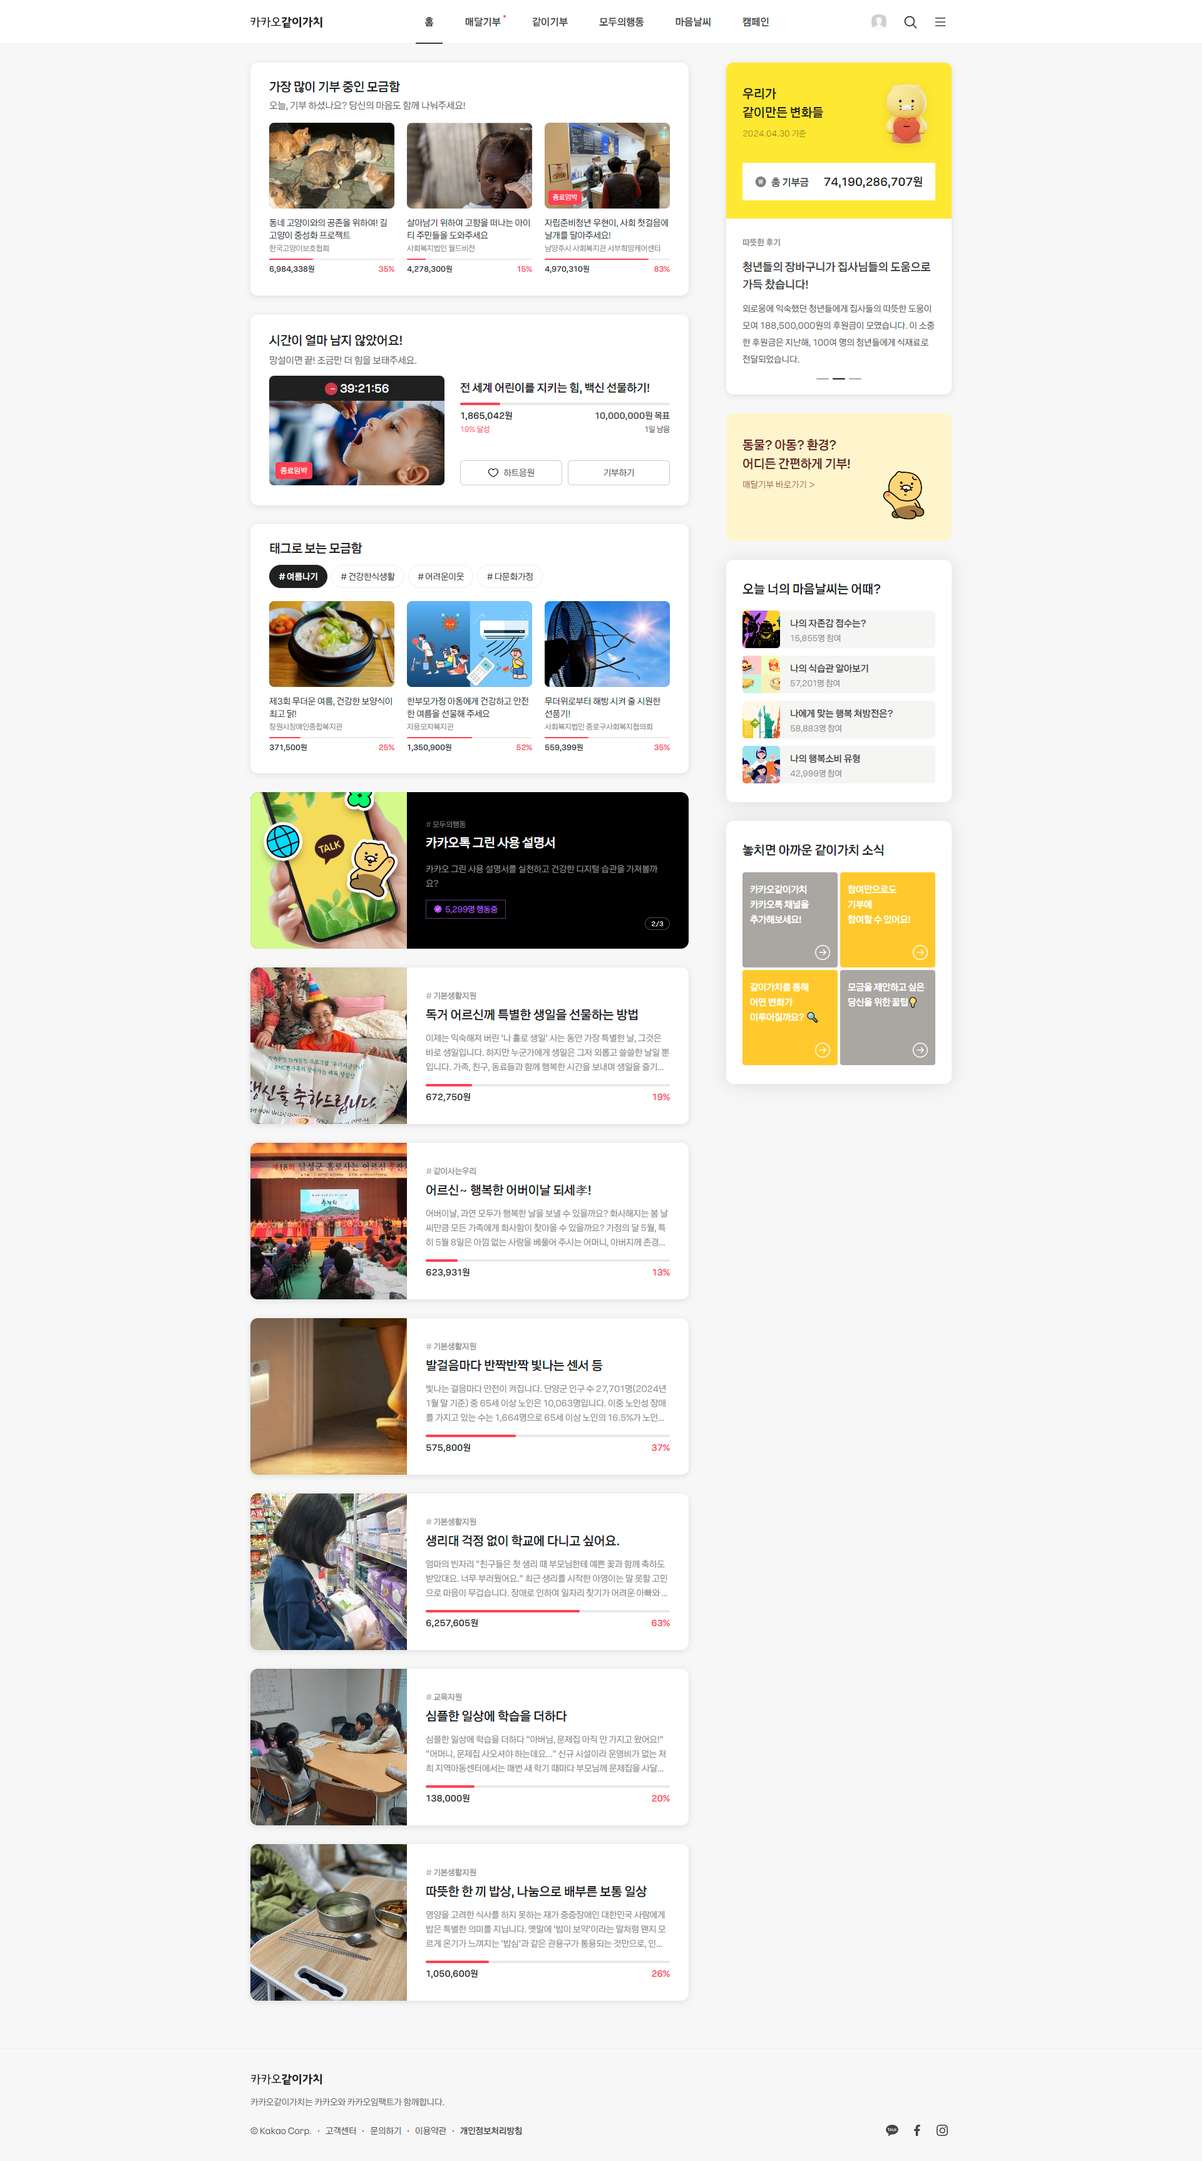
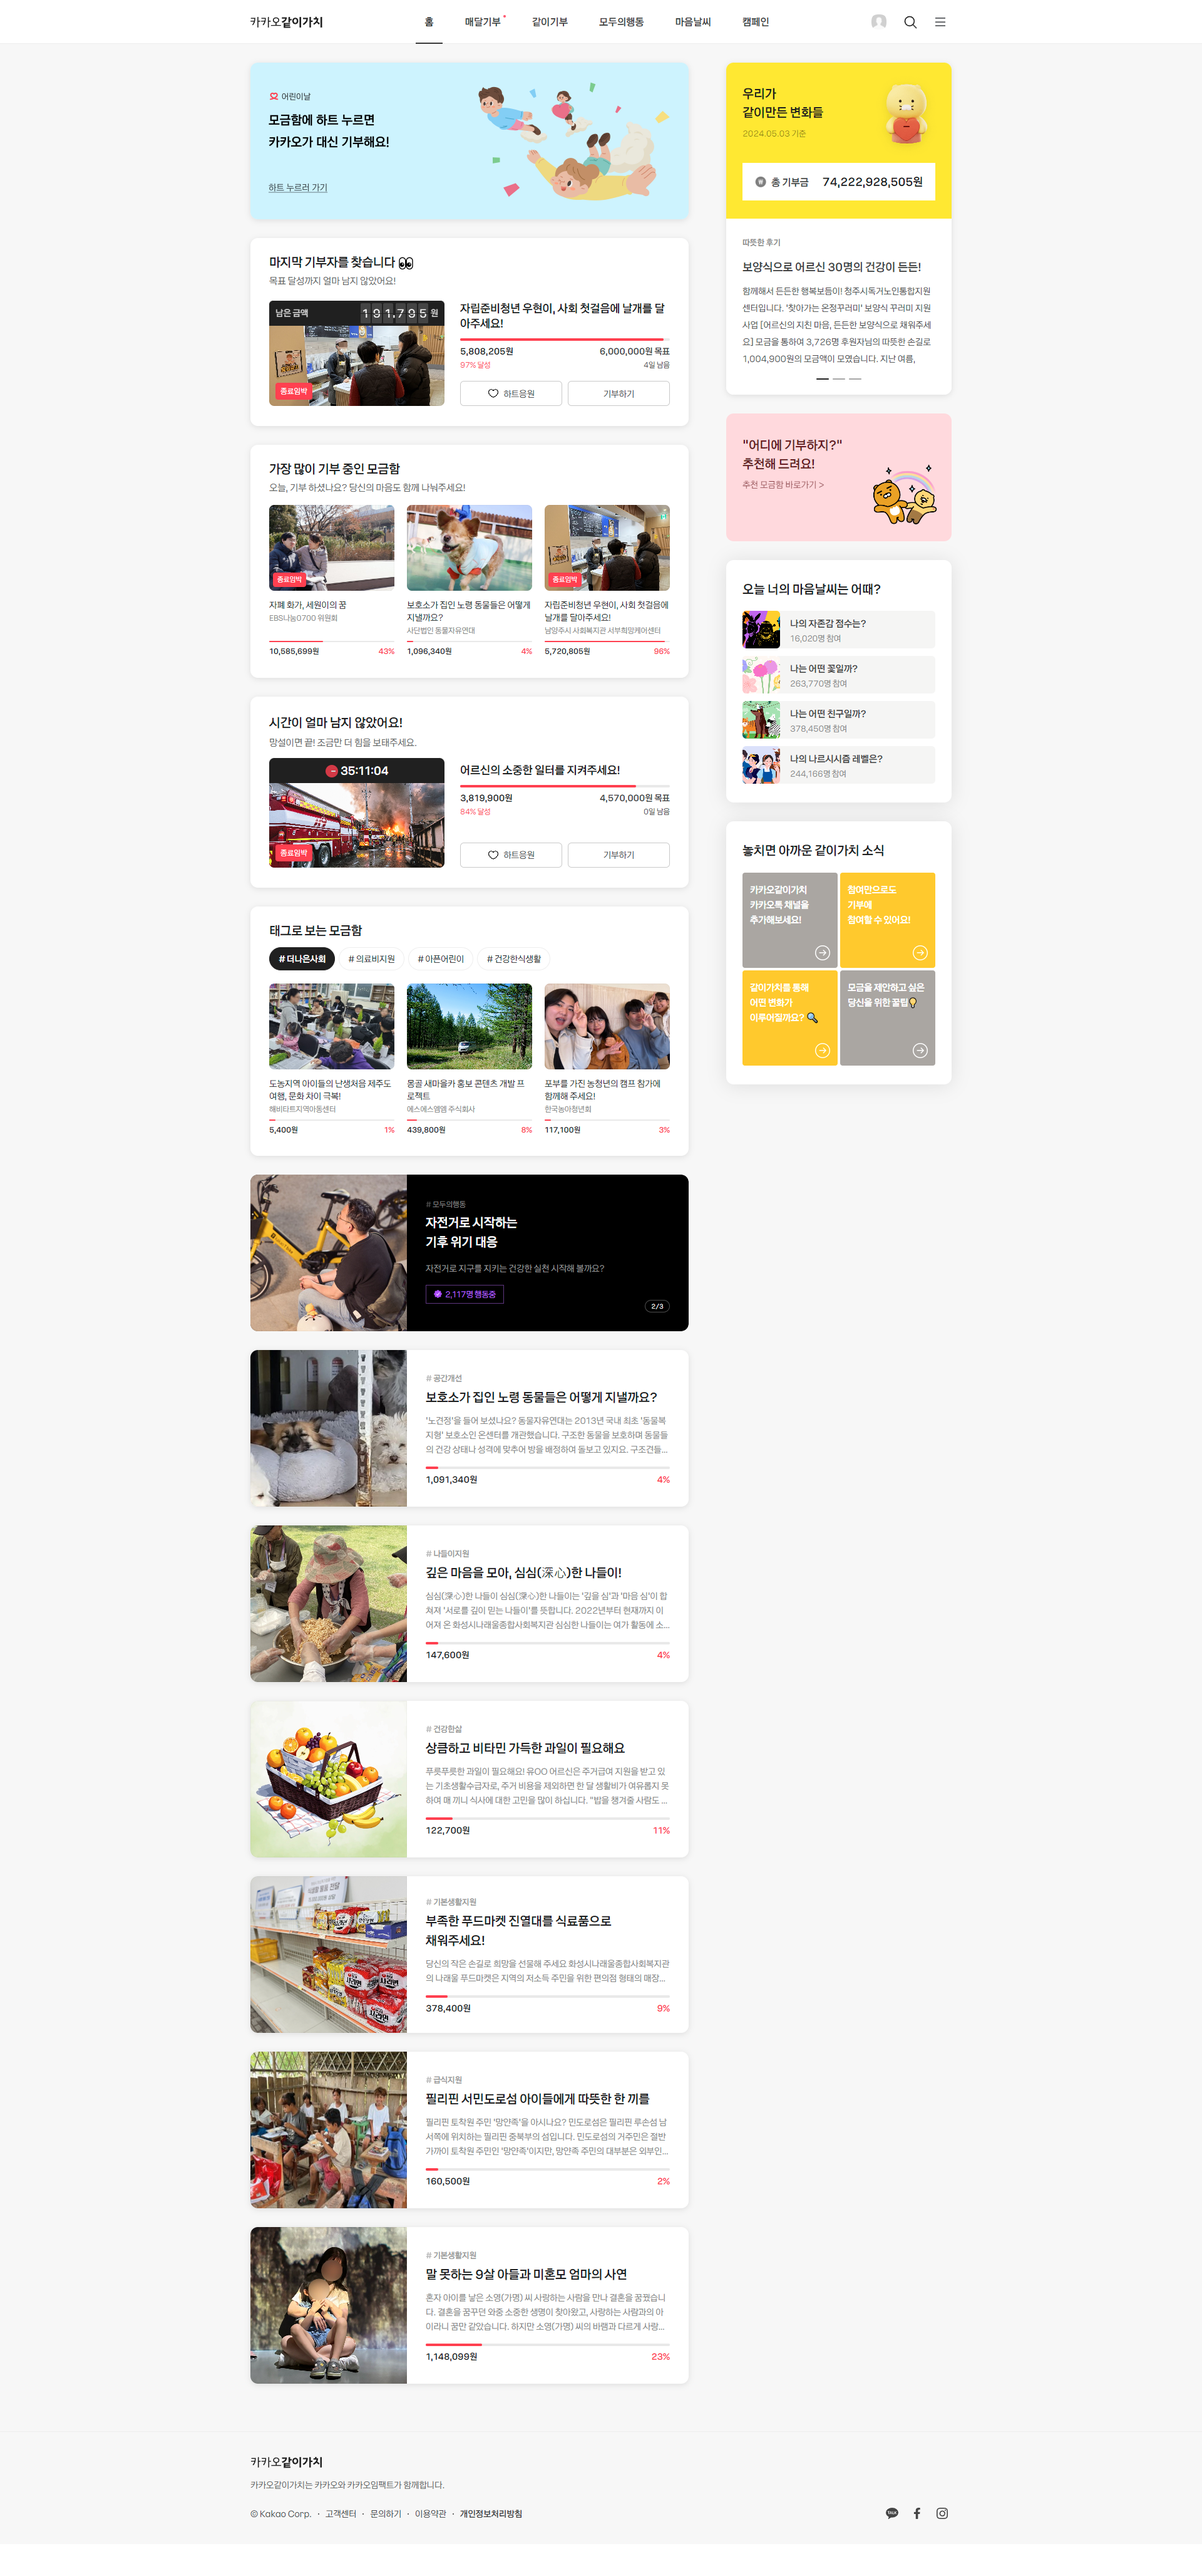
feat : main right 상단 작업중

Changed region(s): [[0.1875, 0.0, 0.8125, 0.9302], [0.2188, 0.9612, 0.4375, 0.9922]]

diff --git a/public/www/css/mainrt.css b/public/www/css/mainrt.css
@@ -1,13 +1,43 @@
 .main-rt {
+  /* margin-left: 30px; */
+  width: 360px;
 }
 .main-rt-top {
-  width: 360px;
-  height: 560px;
+  /* width: 360px;
+  height: 560px; */
+  margin-bottom: 30px;
+  border-radius: 12px;
+  box-shadow: rgba(0, 0, 0, 0.1) 0px 2px 10px 0px;
 }
 
 .main-rt-top-donation {
+  width: 100%;
+  height: 250px;
+  background: #ffe832;
+  border-radius: 12px 12px 0px 0px;
+  padding: 34px 26px 29px;
+}
+.donation-title {
+  font-size: 20px;
+  font-weight: 600;
+  line-height: 1.5;
+  color: #202020;
+}
+.donation-data {
+  padding-top: 12px;
+  color: rgba(0, 0, 0, 0.5);
+  font-size: 13px;
+}
+
+.donation-img img {
+  width: 105px;
+  height: 133px;
 }
 .main-rt-top-review {
+  width: 100%;
+  height: 280px;
+  background: #fff;
+  border-radius: 0px 0px 12px 12px;
 }
 
 .main-rt-banner {
@@ -15,17 +45,17 @@
   height: 204px;
   margin-top: 30px;
   border-radius: 12px;
-  background: pink;
+  background: #ffd9dd;
 }
 
 .main-rt-card {
   width: 360px;
   height: 387px;
-  background: pink;
+  background: #f5f5f4;
 }
 .main-rt-news {
   width: 360px;
   height: 420px;
 
-  background: pink;
+  /* background: #aaa6a2, #ffc92d; */
 }

diff --git a/public/www/css/header.css b/public/www/css/header.css
@@ -9,20 +9,31 @@
   border-bottom: 1px solid #eee;
 }
 .header .inner {
-  height: 70px;
+  height: 100%;
 }
 
-.header-nav a {
-  /* display: inline-block; */
+.header-nav {
+  height: 100%;
+}
+
+.header-nav li a {
+  display: inline-flex;
   font-size: 16px;
   font-weight: 700;
+  position: relative;
+  justify-content: center;
+  align-items: center;
+  height: 100%;
+  padding: 0 14px;
 }
 .nav-list {
   display: flex;
   gap: 15px;
+  height: 100%;
 }
 .nav-list li {
-  padding: 15px;
+  /* padding: 15px; */
+  height: 100%;
 }
 .new-alarm {
   width: 4px;
@@ -30,6 +41,8 @@
   background: #ff5a72;
   border-radius: 50%;
   position: absolute;
+  top: 24px;
+  right: 6px;
 }
 
 .header-icon-list {
@@ -37,7 +50,7 @@
 }
 
 .icon-profile img {
-  border-radius: 8px;
+  border-radius: 10px;
   width: 25px;
   height: 25px;
 }

diff --git a/public/www/index.html b/public/www/index.html
@@ -142,7 +142,18 @@
           <div class="main-rt">
             <div class="main-rt-top br-30">
               <!-- 기부금 상황 -->
-              <div class="main-rt-top-donation"></div>
+              <div class="main-rt-top-donation">
+                <a href="#" class="donation-title"
+                  >우리가<br />같이만든 변화들</a
+                >
+                <p class="donation-data">2024.05.03 기준</p>
+                <div class="donation-img">
+                  <img
+                    src="./images/img_choonsik_231226.png"
+                    alt="기부금이미지"
+                  />
+                </div>
+              </div>
               <!-- 기부 후기 -->
               <div class="main-rt-top-review"></div>
             </div>

diff --git a/public/www/css/common.css b/public/www/css/common.css
@@ -17,7 +17,7 @@ a {
   text-decoration: none;
 }
 html {
-  overflow-x: hidden;
+  /* overflow-x: hidden; */
 }
 
 body {
@@ -28,8 +28,7 @@ body {
 }
 
 .wrap {
-  background-color: rgb(247, 247, 247);
-
+  background-color: #f7f7f7;
   position: relative;
   padding-top: 70px;
 }
@@ -51,6 +50,6 @@ body {
   margin-top: 30px;
   border-radius: 12px;
   box-shadow: rgba(0, 0, 0, 0.1) 0px 1px 15px 0px;
-  background-color: #fff;
-  padding: 15px;
+  /* background-color: #fff; */
+  /* padding: 15px; */
 }
